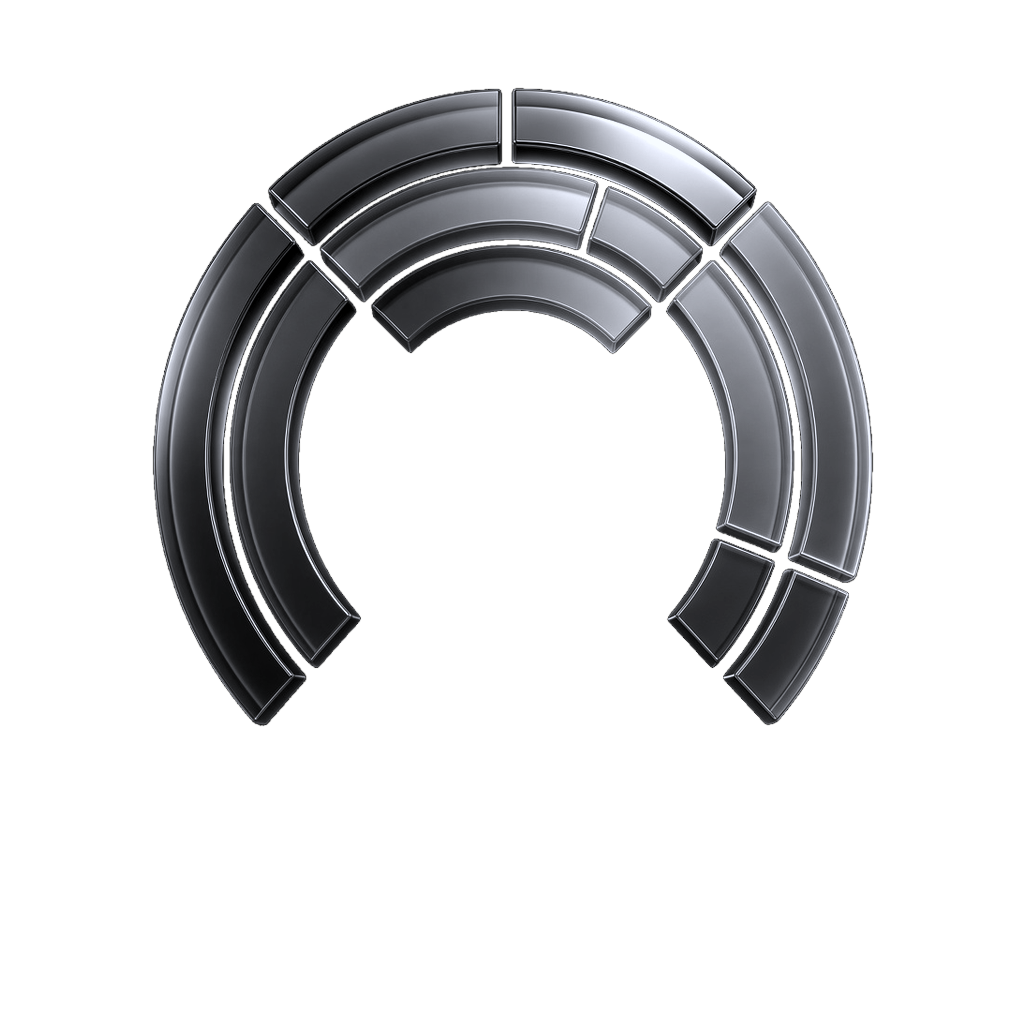
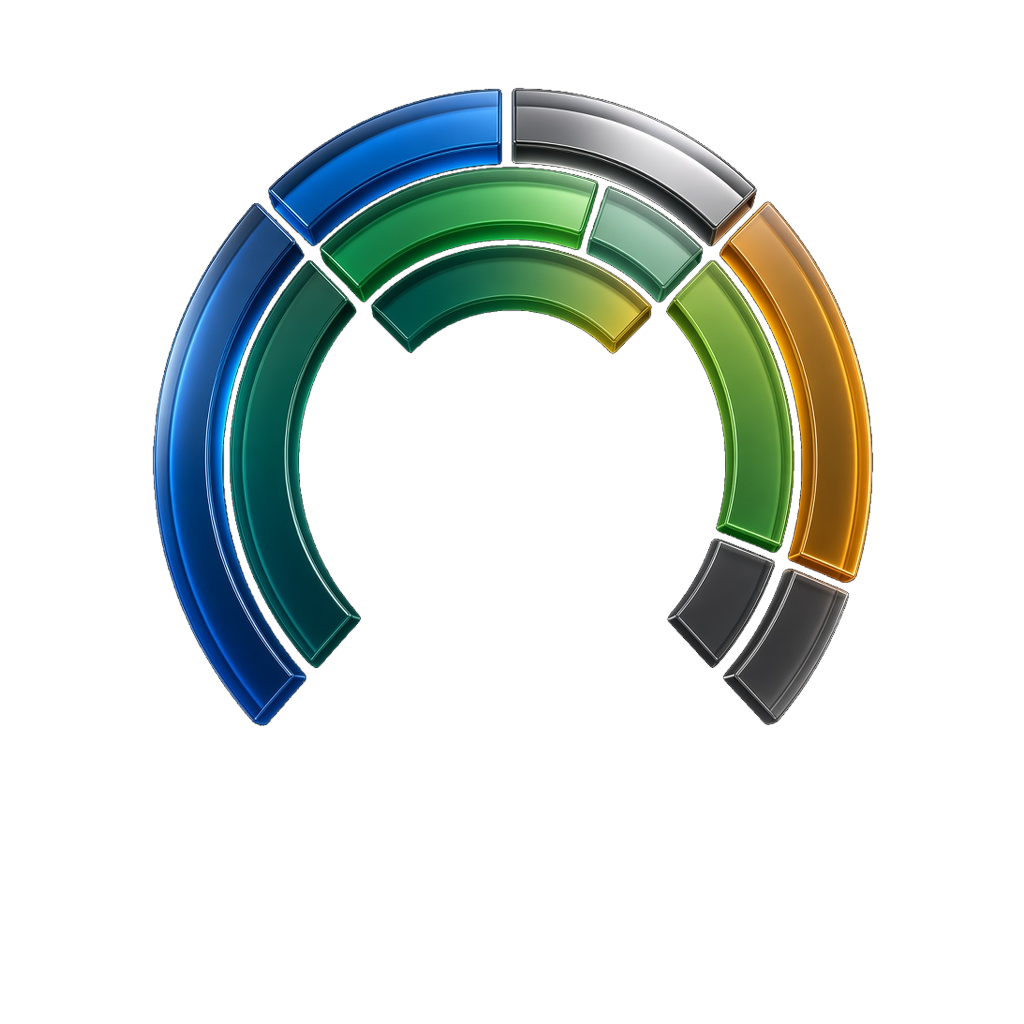
feat(intro): restore the color rainbow and lift it off the cup
The gauge was sitting on the lid; raise it so the trophy sits in the
opening, and bring the original blue-green-gold arc back.

Changed region(s): [[0.125, 0.0625, 0.875, 0.7188], [0.5938, 0.125, 0.6562, 0.1562]]

diff --git a/css/app.css b/css/app.css
@@ -352,7 +352,8 @@
   .intro.play .intro-cup{animation:introCup .85s cubic-bezier(.22,.7,.2,1) forwards;}
   .intro-gauge{
     z-index:1;opacity:0;
-    filter:drop-shadow(0 16px 18px rgba(0,0,0,.58)) drop-shadow(0 5px 4px rgba(0,0,0,.4)) drop-shadow(0 0 12px rgba(255,255,255,.16));
+    top:-12%;
+    filter:drop-shadow(0 16px 18px rgba(0,0,0,.58)) drop-shadow(0 5px 4px rgba(0,0,0,.4)) drop-shadow(0 0 12px rgba(40,120,255,.32));
     -webkit-mask-image:conic-gradient(from 223deg at 50% 45%, transparent 0deg, transparent 360deg);
     mask-image:conic-gradient(from 223deg at 50% 45%, transparent 0deg, transparent 360deg);
     -webkit-mask-size:100% 100%;mask-size:100% 100%;

diff --git a/js/version.js b/js/version.js
@@ -1,2 +1,2 @@
 // Keep in sync with android/app/build.gradle versionName.
-window.FFK_VERSION = '1.2.20';
+window.FFK_VERSION = '1.2.21';

diff --git a/sw.js b/sw.js
@@ -1,4 +1,4 @@
-const CACHE = 'ffk_v102';
+const CACHE = 'ffk_v103';
 const ASSETS = [
   './',
   './index.html',
